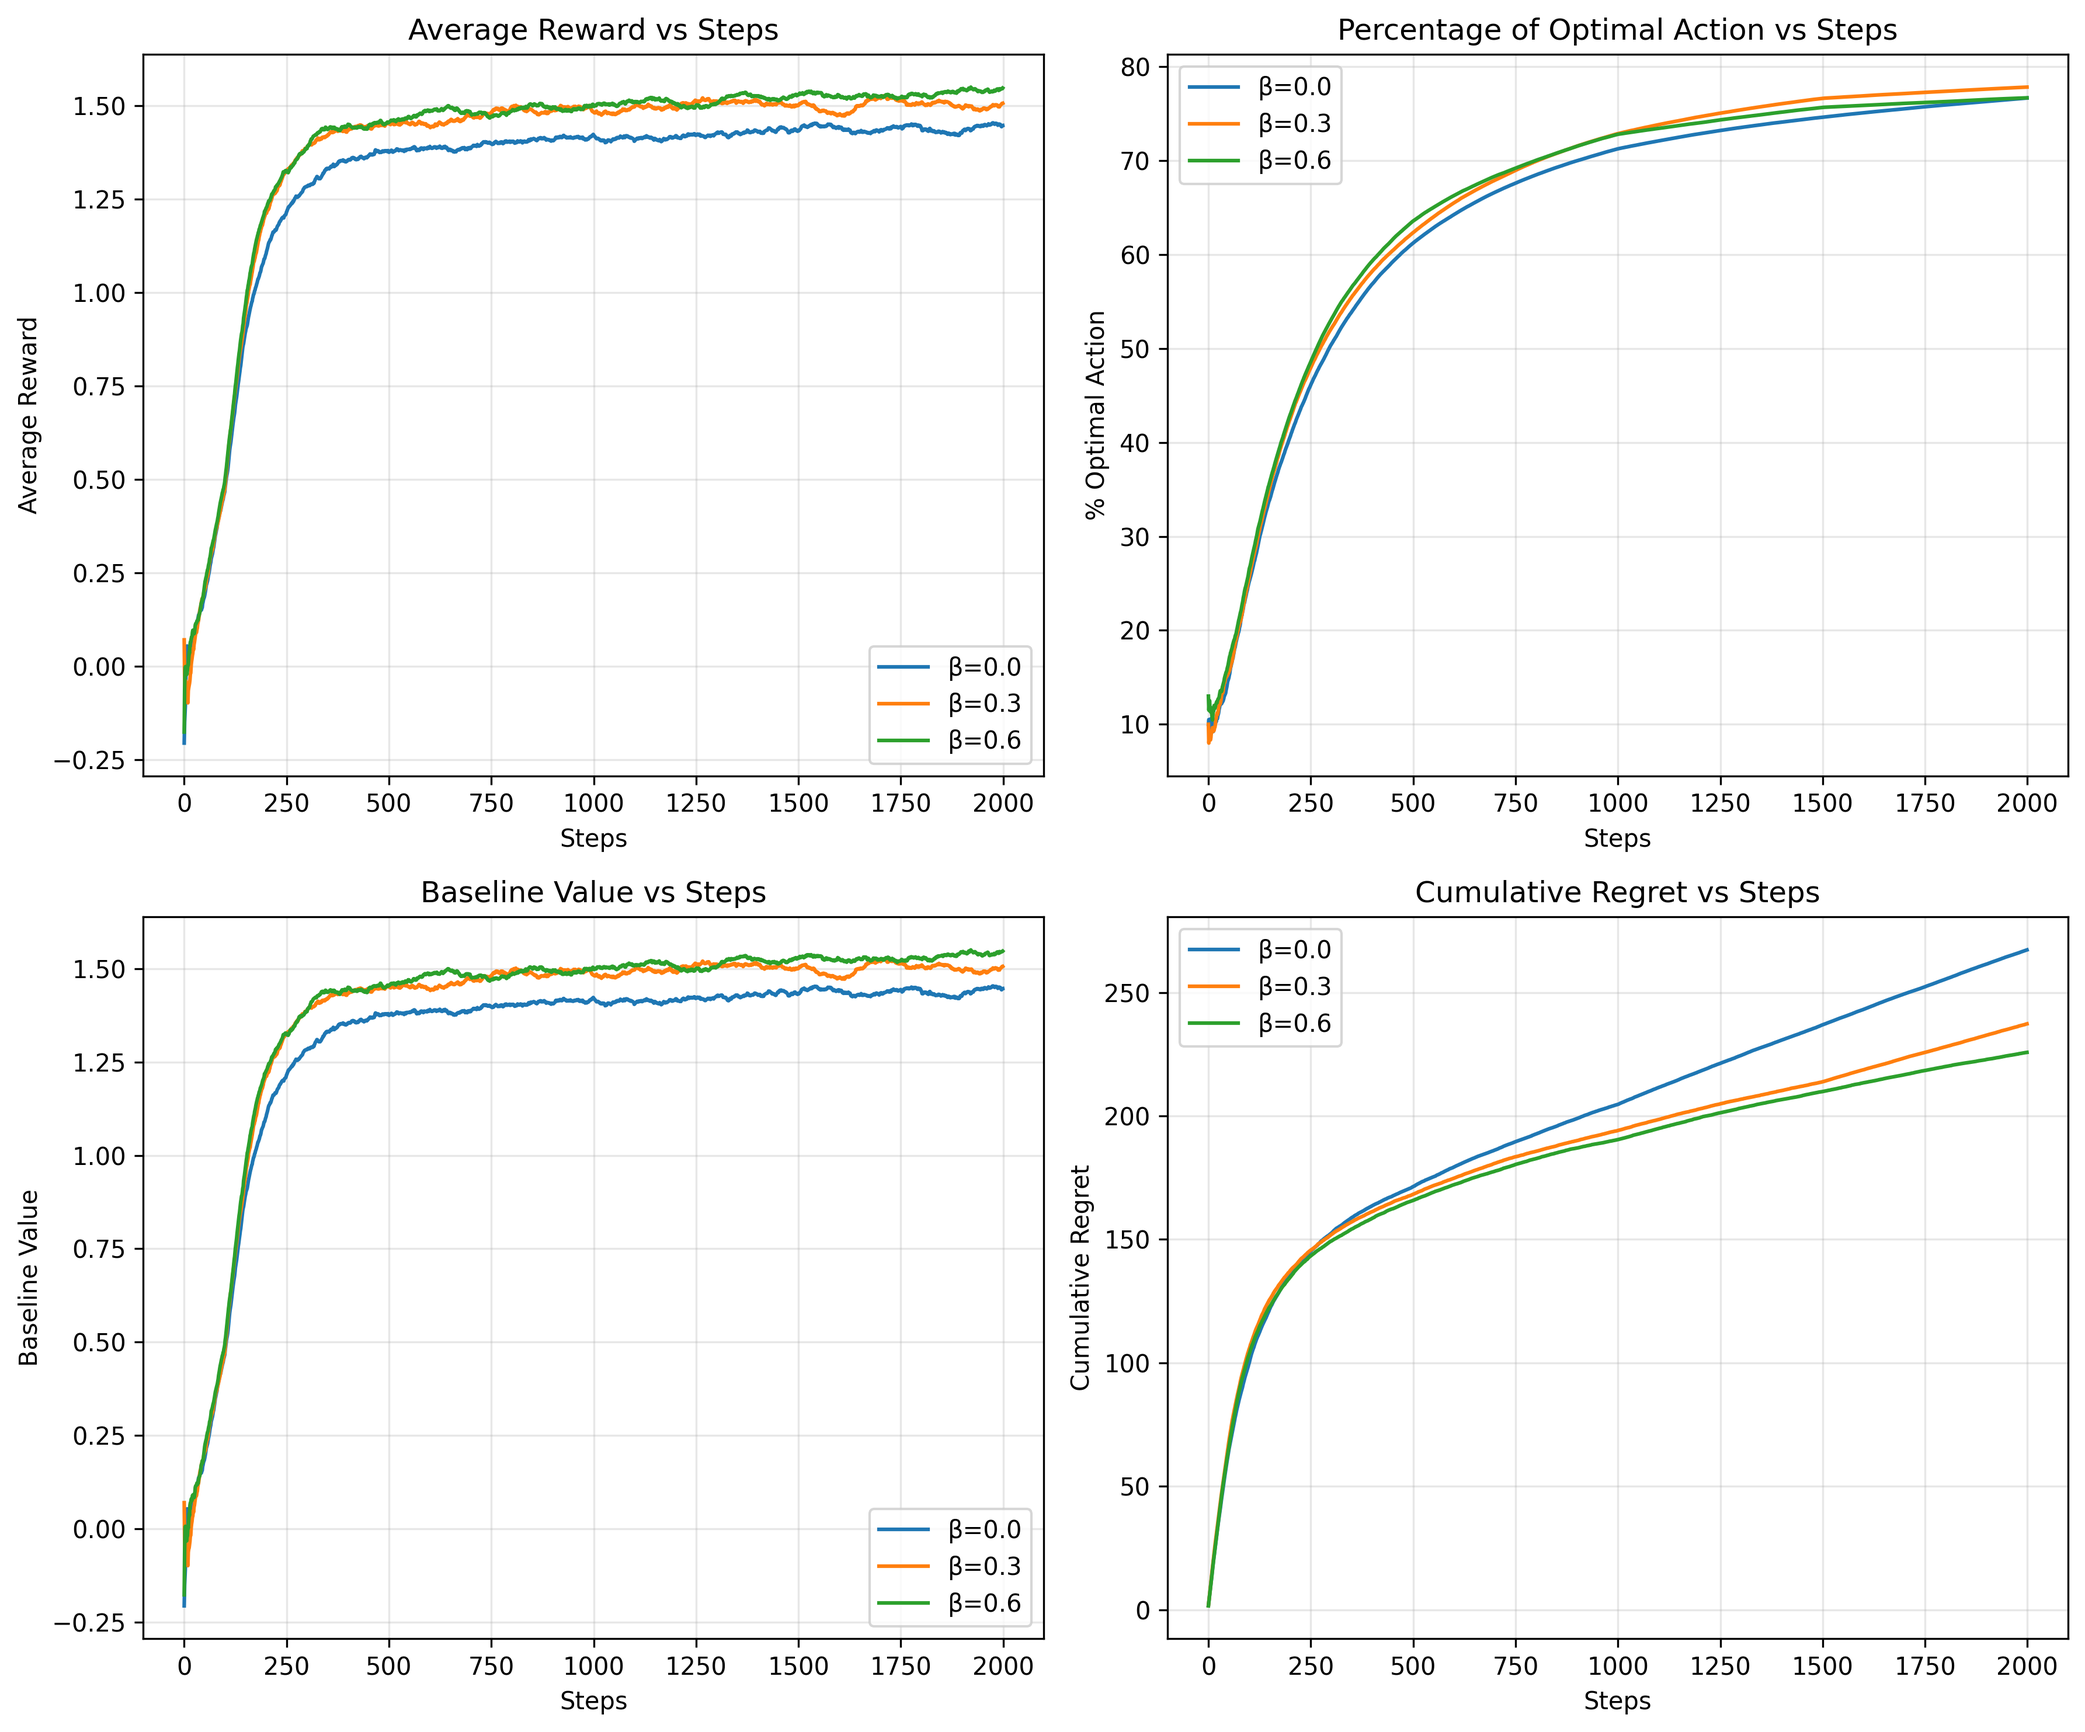
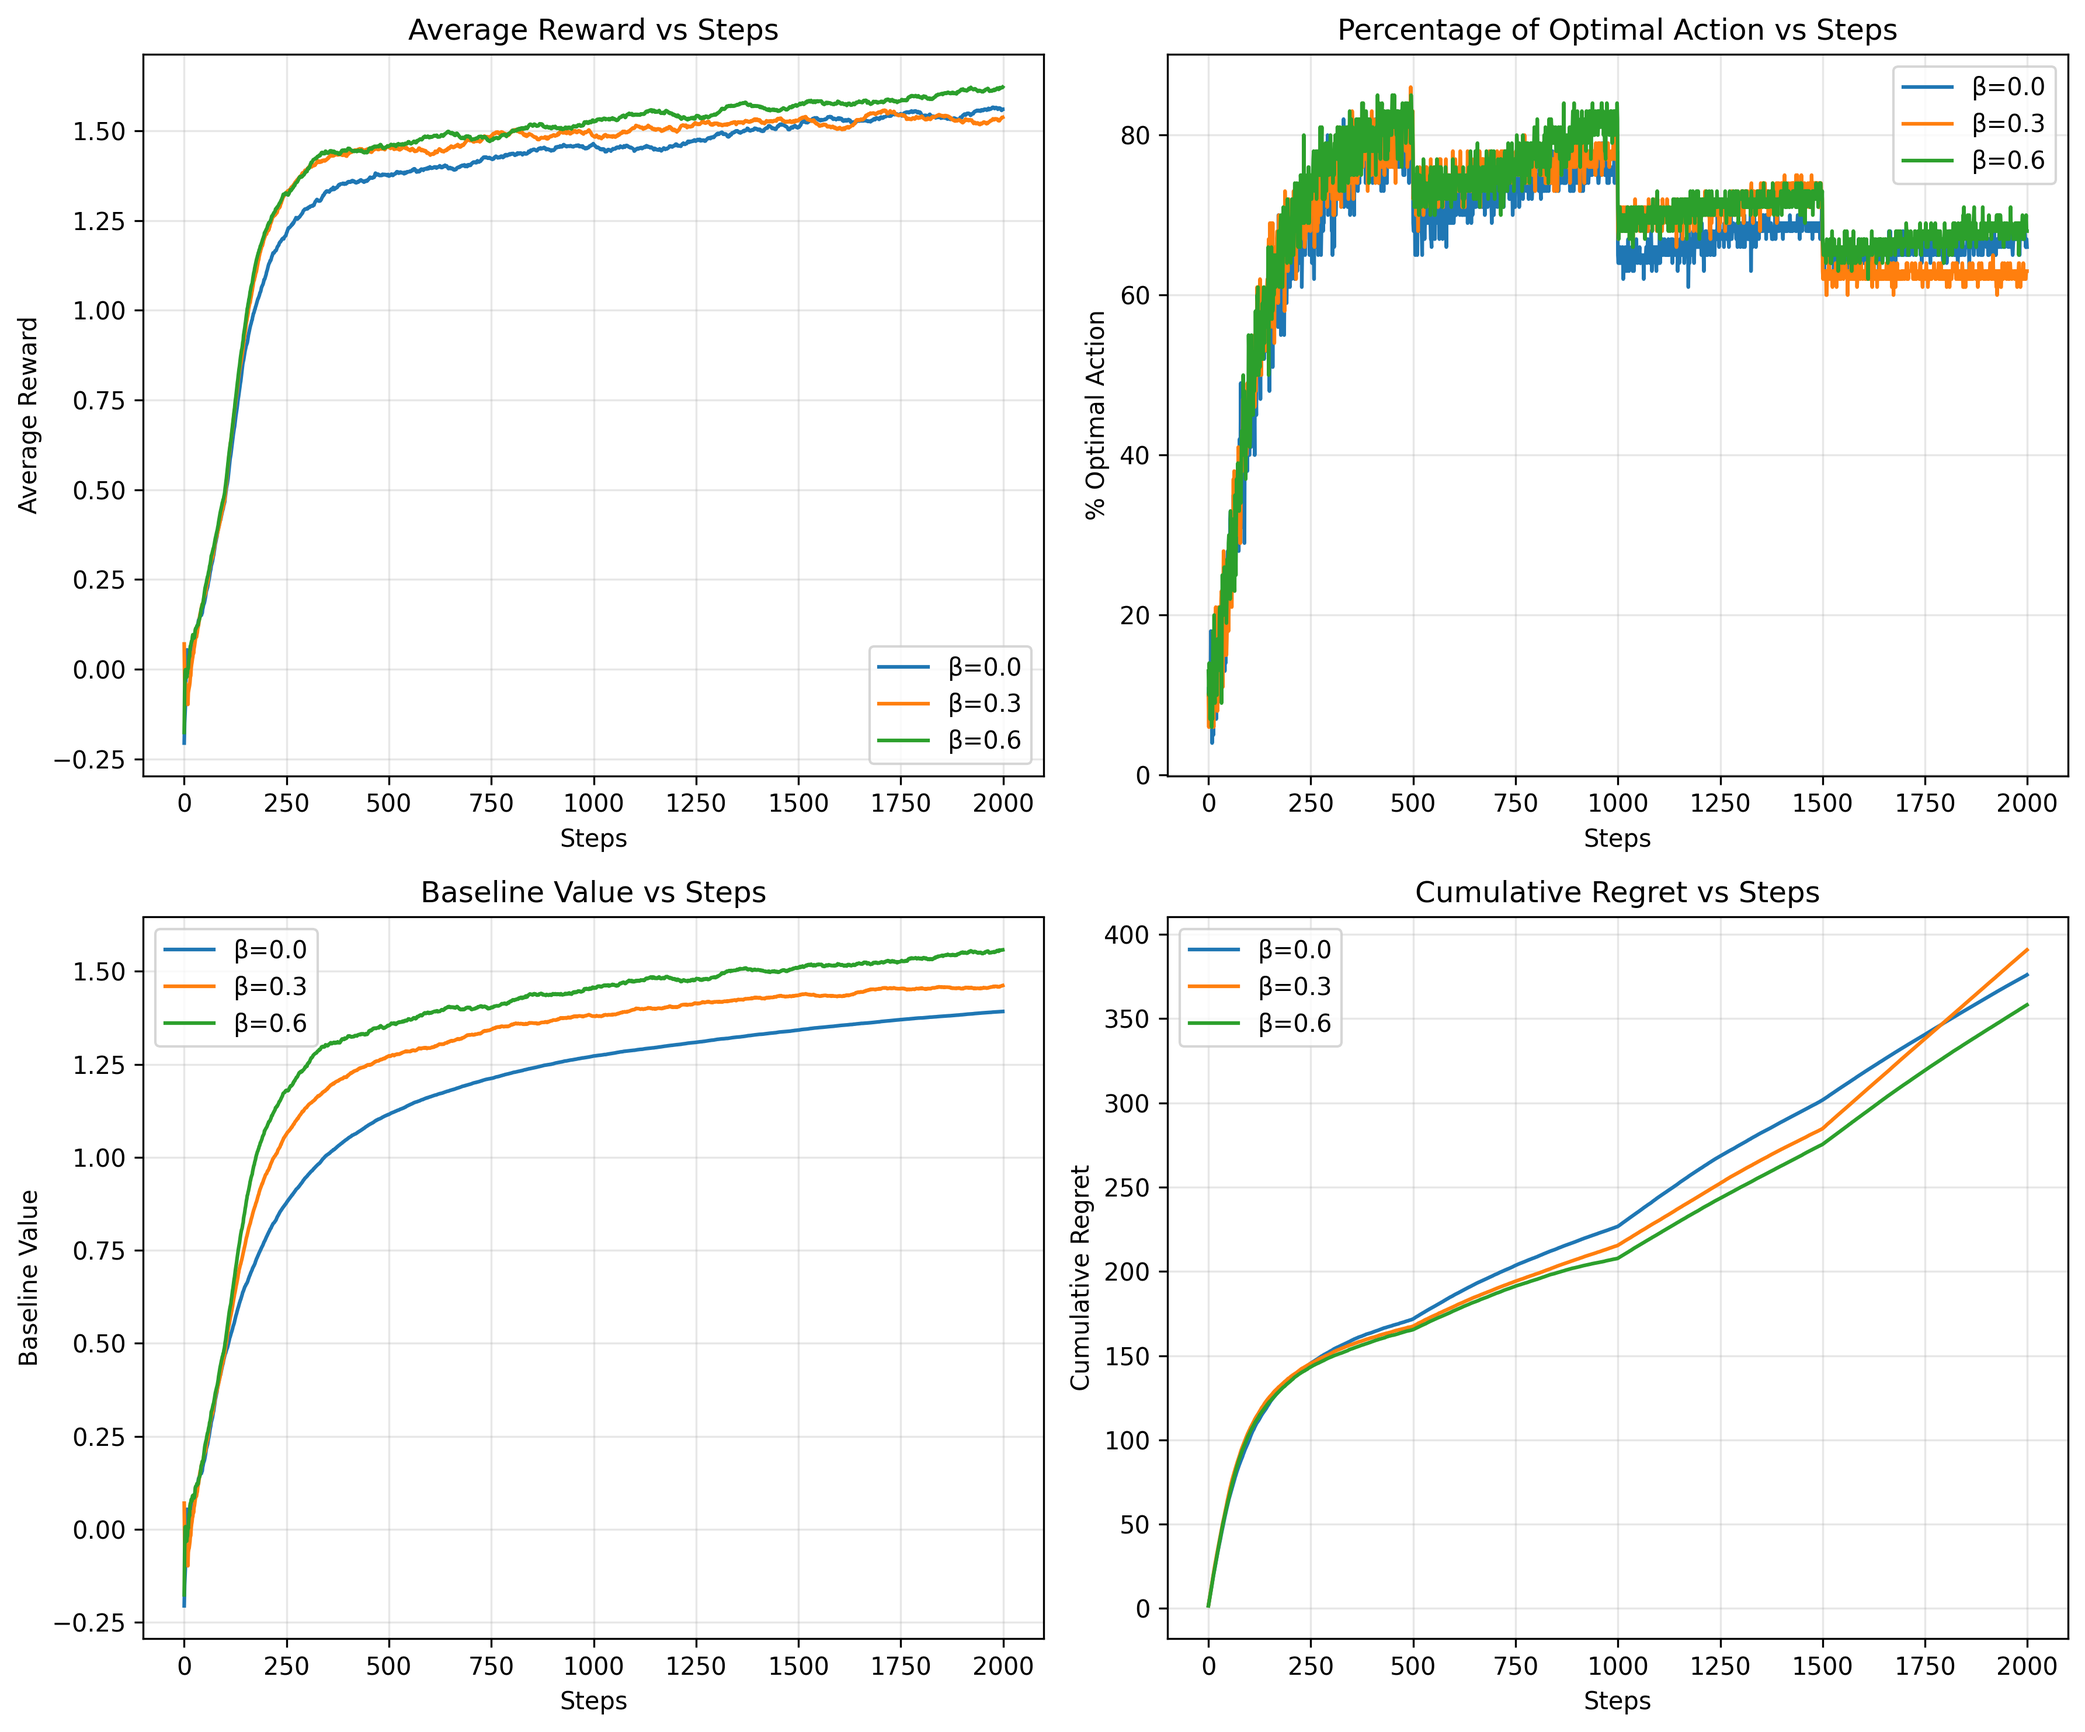
fix

diff --git a/assignment1.py b/assignment1.py
@@ -17,24 +17,31 @@ class AdaptiveGradientBandit:
         self.beta = beta
         self.window_size = window_size
         self.rewards_history = [] 
-        self.H = [0.0] * n_arms # Preferences for each arm
+        self.H = [0.0] * n_arms # Numerical preferences for each arm
+        # pi stores the actual selection probabilities derived from preferences via softmax
         self.pi = [1.0/ n_arms] * n_arms # Initial softmax probabilities
 
     def select_action(self) -> int:
         """Select action based on current softmax policy."""
+        # Sample from categorical distribution defined by current probabilities
         return np.random.choice(a=self.n_arms, p=self.pi) # returns the index of the chosen arm
         
     def update(self, action: int, reward: float) -> None:
         """Update preferences using adaptive baseline."""
+        # Store reward for baseline calculation
         self.rewards_history.append(reward)
         baseline = self.get_baseline() # adaptive baseline
         
+        # Gradient bandit update rule
         for a in range(self.n_arms):
             if action == a:
+                # For chosen arm: increase preference proportional to (reward - baseline)
                 self.H[a] += self.alpha * (reward - baseline) * (1 - self.pi[a])
             else:
+                # For unchosen arms: decrease preference proportional to (reward - baseline)
                 self.H[a] -= self.alpha * (reward - baseline) * self.pi[a]
         
+        # Update action probabilities via softmaxs
         exp_H = np.exp(self.H)
         self.pi = exp_H / np.sum(exp_H)
     
@@ -42,24 +49,29 @@ class AdaptiveGradientBandit:
         """Return current baseline value."""
         if not self.rewards_history:
             return 0.0
-        
+ 
         recent_rewards = [0.0]*self.window_size
-        # select the recent rewards using window size
         if len(self.rewards_history) < self.window_size:
             recent_rewards = self.rewards_history
         else:
+            # Use only the last 'window_size' rewards for recency
             recent_rewards = self.rewards_history[-self.window_size:]
         
         recent_rewards = np.array(recent_rewards)
-        avg_reward = np.mean(recent_rewards)
+        recent_rewards_mean = np.mean(recent_rewards)
+        avg_reward = np.mean(self.rewards_history) #running average over all rewards
         
         eps = 1e-8
-        deviations = (recent_rewards - avg_reward) ** 2
+        # Calculate squared deviations from mean
+        deviations = (recent_rewards - recent_rewards_mean) ** 2
+        # Inverse variance weighting so rewards with lower variance get higher weight
         weights = 1.0 / (deviations + eps) # prevent division by zero
         weights  = weights/ np.sum(weights) # normalize the weights
+
         recent_variance_adjusted_mean = np.sum(weights * recent_rewards)
         
         return (1 - self.beta) * avg_reward + self.beta * recent_variance_adjusted_mean
+
 
 def run_experiment(n_runs: int, n_steps: int, n_arms: int, alpha: float, 
                    beta: float, window_size: int) -> dict:
@@ -69,20 +81,26 @@ def run_experiment(n_runs: int, n_steps: int, n_arms: int, alpha: float,
     Returns:
         dict with keys: 'rewards', 'optimal_actions', 'baselines'
     """
-
+    # Initialize arrays to store results across all runs
     all_rewards = np.zeros((n_runs, n_steps))
     all_percentage_optimal_action = np.zeros((n_runs, n_steps))
     all_baselines = np.zeros((n_runs, n_steps))
     all_cumulative_regrets = np.zeros((n_runs, n_steps))
+    
+    # Run multiple runs
     for run in range(n_runs):
+        # Create fresh bandit environment for each run
         bandit = NonStationaryBandit(alpha=alpha, beta=beta, window_size=window_size, n_arms=n_arms)
         for step in range(n_steps):
+            # Execute one step: select action, receive reward, update
             bandit.step()
+            # Record metrics for this step
             all_rewards[run, step] = bandit.gradient_bandit.rewards_history[-1]
-            all_percentage_optimal_action[run, step] = bandit.percent_optimal / (step + 1)
+            all_percentage_optimal_action[run, step] = bandit.optimal_choice
             all_baselines[run, step] = bandit.gradient_bandit.get_baseline()
             all_cumulative_regrets[run, step] = bandit.cumulative_regret
     
+    # Average across all runs
     return {
         'rewards': np.mean(all_rewards, axis=0),
         'optimal_actions': np.mean(all_percentage_optimal_action, axis=0),
@@ -94,41 +112,45 @@ class NonStationaryBandit:
     """Non-stationary 10-armed bandit with random walk."""
     def __init__(self, alpha: float, beta: float, window_size: int, n_arms: int = 10 ):
         self.n_arms = n_arms
+        # Initialize true action values from standard normal
         self.true_means = np.random.normal(0, 1, self.n_arms) # true action values initialized from N(0,1)
         self.timestep = 0
         self.gradient_bandit = AdaptiveGradientBandit(n_arms= self.n_arms, alpha=alpha, beta=beta, window_size=window_size)
         self.cumulative_regret = 0.0
-        self.percent_optimal = 0.0
+        self.optimal_choice = 0
 
     def step(self) -> None:
-        """Update true means with random walk."""
+        """Execute one step: select action, get reward, update agent, track metrics."""
+        # Determine which arm is optimal
         optimal_arm = np.argmax(self.true_means)
         
+        # select arm based on its current policy
         action = self.gradient_bandit.select_action()
+        # Reward is sampled from normal distribution centered at true mean, std of 1 adds some noise
         reward = np.random.normal(self.true_means[action], 1)
+        # Update agent's preferences based on observed reward
         self.gradient_bandit.update(action, reward)
         self.timestep += 1
 
-        # track matrics
-        if action == optimal_arm:
-            self.percent_optimal += 1
+        self.optimal_choice = int(action == optimal_arm)
         self.cumulative_regret += self.true_means[optimal_arm] - self.true_means[action]
 
-        # every 500 steps, update the true means using N(0,0.1)
+        # Every 500 steps, the true means shift via random walk
         if self.timestep % 500 == 0 and self.timestep != 0:
-            self.true_means += np.random.normal(0, 0.1, self.n_arms)
+            # Add Gaussian noise with variance 0.1 to each true mean
+            self.true_means += np.random.normal(0, np.sqrt(0.1), self.n_arms)
+
 def main():
     """Run experiments and plot results."""
-
+    # Set seed for reproducibility
     np.random.seed(42)
 
-    n_runs = 100
-    n_steps = 2000
-    n_arms = 10
-    alpha = 0.1
-    window_size = 100
-
-    beta_values = [0.0, 0.3, 0.6]
+    n_runs = 100      # Number of independent runs to average over
+    n_steps = 2000    # Time horizon for each run
+    n_arms = 10       # Number of bandit arms
+    alpha = 0.1       # Learning rate for preference updates
+    window_size = 100 # Size of sliding window for baseline calculation
+    beta_values = [0.0, 0.3, 0.6] # Different beta values to test
     all_results = {}
     
     # Run experiments for all beta values
@@ -136,12 +158,13 @@ def main():
         print(f"Running experiments for beta={beta}...")
         results = run_experiment(n_runs, n_steps, n_arms, alpha, beta, window_size)
         
-        # Calculate running average over last 100 steps
         running_avg = np.zeros(n_steps)
         for i in range(n_steps):
             if i >= window_size - 1:
+                # Use full window once we have enough data
                 running_avg[i] = np.mean(results['rewards'][i - window_size + 1: i + 1 ])
             else:
+                # Use all available data when we don't have full window yet
                 running_avg[i] = np.mean(results['rewards'][:i+1])
         
         all_results[beta] = {
@@ -151,11 +174,11 @@ def main():
             'cumulative_regret': results['cumulative_regret']
         }
     
-    # Create plots
+    # plots
     fig, axes = plt.subplots(2, 2, figsize=(12, 10))
     axes = axes.flatten()
     
-    # Plot 1: Average Reward
+    # Average Reward
     for beta in beta_values:
         axes[0].plot(all_results[beta]['rewards'], label=f'β={beta}')
     axes[0].set_xlabel('Steps')
@@ -164,7 +187,7 @@ def main():
     axes[0].legend()
     axes[0].grid(True, alpha=0.3)
     
-    # Plot 2: Optimal Actions
+    # Optimal Actions
     for beta in beta_values:
         axes[1].plot(all_results[beta]['optimal_actions'] * 100, label=f'β={beta}')
     axes[1].set_xlabel('Steps')
@@ -173,7 +196,7 @@ def main():
     axes[1].legend()
     axes[1].grid(True, alpha=0.3)
     
-    # Plot 3: Baseline Values
+    # Baseline Values
     for beta in beta_values:
         axes[2].plot(all_results[beta]['baselines'], label=f'β={beta}')
     axes[2].set_xlabel('Steps')
@@ -182,7 +205,7 @@ def main():
     axes[2].legend()
     axes[2].grid(True, alpha=0.3)
 
-    # Plot 4: Cumulative Regret
+    # Cumulative Regret
     for beta in beta_values:
         axes[3].plot(all_results[beta]['cumulative_regret'], label=f'β={beta}')
     axes[3].set_xlabel('Steps')
@@ -198,4 +221,3 @@ def main():
 
 if __name__ == "__main__":
     main()
-
